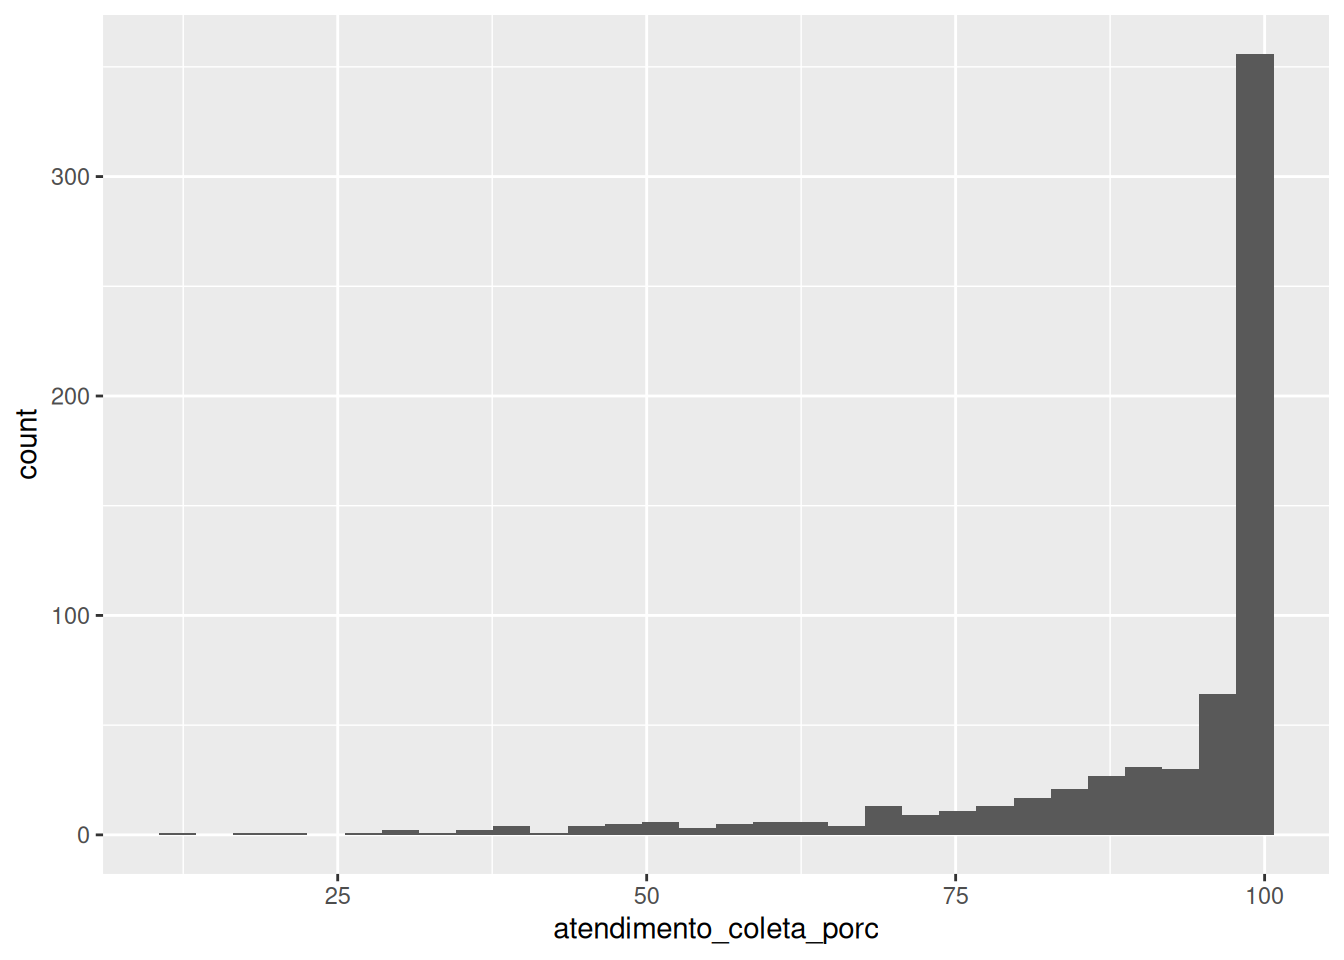
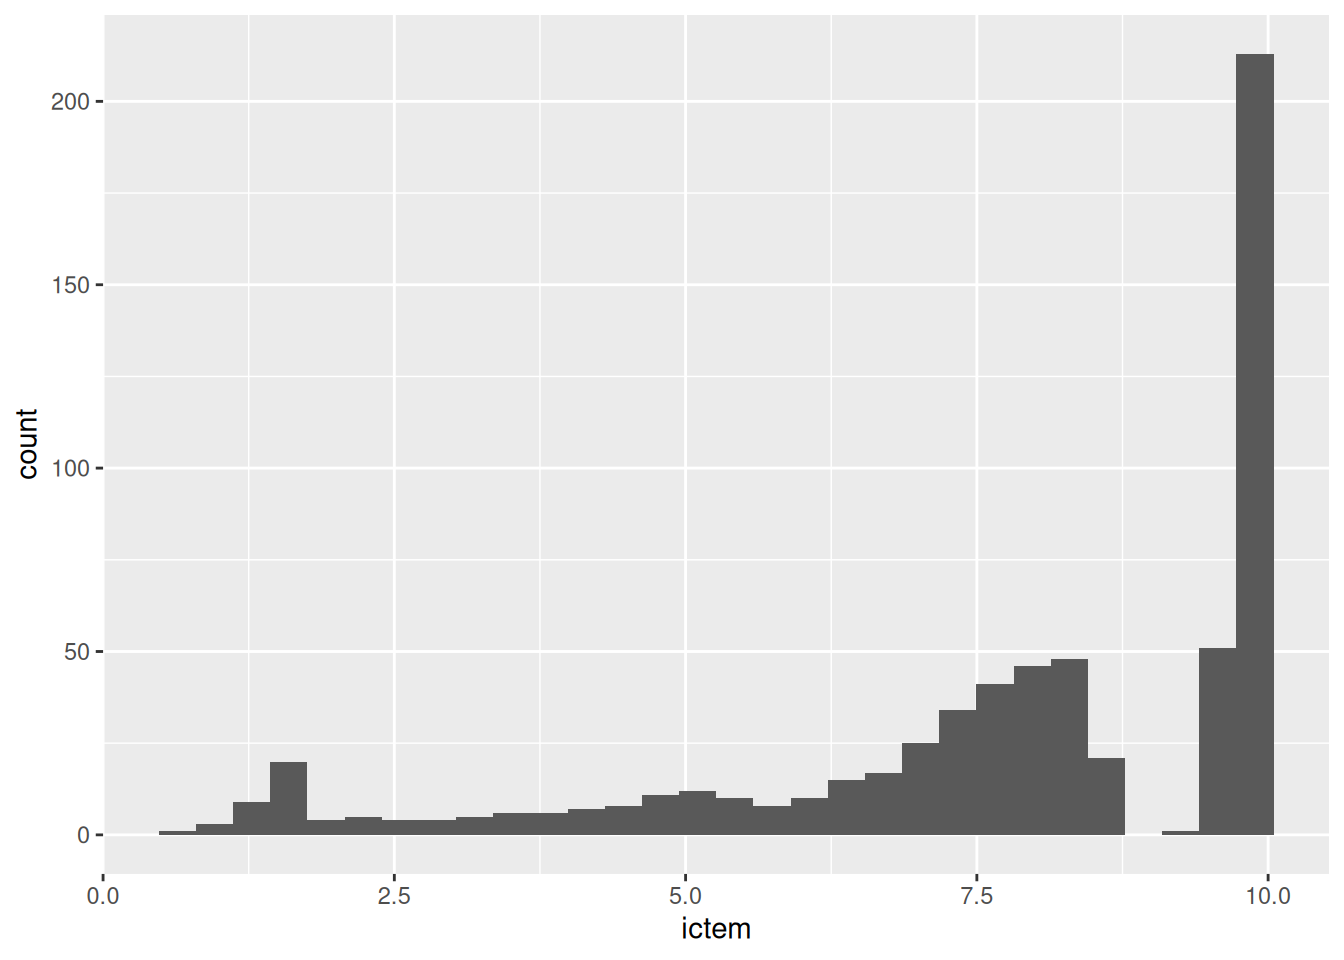
Built site for gh-pages

diff --git a/praticas/03_analise-exploratoria.html b/praticas/03_analise-exploratoria.html
@@ -722,7 +722,7 @@ O operador <code>$</code>
 <div class="sourceCode cell-code" id="cb42"><pre class="sourceCode r code-with-copy"><code class="sourceCode r"><span id="cb42-1"><a href="#cb42-1" aria-hidden="true" tabindex="-1"></a><span class="co"># inicia o gráfico com os dados `dados_cetesb`</span></span>
 <span id="cb42-2"><a href="#cb42-2" aria-hidden="true" tabindex="-1"></a><span class="fu">ggplot</span>(dados_cetesb) <span class="sc">+</span></span>
 <span id="cb42-3"><a href="#cb42-3" aria-hidden="true" tabindex="-1"></a>  <span class="co"># define a variável que será plotada no eixo x</span></span>
-<span id="cb42-4"><a href="#cb42-4" aria-hidden="true" tabindex="-1"></a>  <span class="fu">aes</span>(<span class="at">x =</span> atendimento_coleta_porc) <span class="sc">+</span></span>
+<span id="cb42-4"><a href="#cb42-4" aria-hidden="true" tabindex="-1"></a>  <span class="fu">aes</span>(<span class="at">x =</span> ictem) <span class="sc">+</span></span>
 <span id="cb42-5"><a href="#cb42-5" aria-hidden="true" tabindex="-1"></a>  <span class="co"># adiciona a geometria de histograma</span></span>
 <span id="cb42-6"><a href="#cb42-6" aria-hidden="true" tabindex="-1"></a>  <span class="fu">geom_histogram</span>() </span></code><button title="Copiar para a área de transferência" class="code-copy-button"><i class="bi"></i></button></pre></div>
 <div class="cell-output cell-output-stderr">
@@ -741,7 +741,7 @@ O operador <code>$</code>
 <div class="sourceCode cell-code" id="cb44"><pre class="sourceCode r code-with-copy"><code class="sourceCode r"><span id="cb44-1"><a href="#cb44-1" aria-hidden="true" tabindex="-1"></a><span class="co"># inicia o gráfico com os dados `dados_cetesb`</span></span>
 <span id="cb44-2"><a href="#cb44-2" aria-hidden="true" tabindex="-1"></a><span class="fu">ggplot</span>(dados_cetesb) <span class="sc">+</span></span>
 <span id="cb44-3"><a href="#cb44-3" aria-hidden="true" tabindex="-1"></a>  <span class="co"># define a variável que será plotada no eixo y</span></span>
-<span id="cb44-4"><a href="#cb44-4" aria-hidden="true" tabindex="-1"></a>  <span class="fu">aes</span>(<span class="at">y =</span> atendimento_coleta_porc) <span class="sc">+</span></span>
+<span id="cb44-4"><a href="#cb44-4" aria-hidden="true" tabindex="-1"></a>  <span class="fu">aes</span>(<span class="at">y =</span> ictem) <span class="sc">+</span></span>
 <span id="cb44-5"><a href="#cb44-5" aria-hidden="true" tabindex="-1"></a>  <span class="co"># adiciona a geometria de histograma</span></span>
 <span id="cb44-6"><a href="#cb44-6" aria-hidden="true" tabindex="-1"></a>  <span class="fu">geom_boxplot</span>() </span></code><button title="Copiar para a área de transferência" class="code-copy-button"><i class="bi"></i></button></pre></div>
 <div class="cell-output-display">
